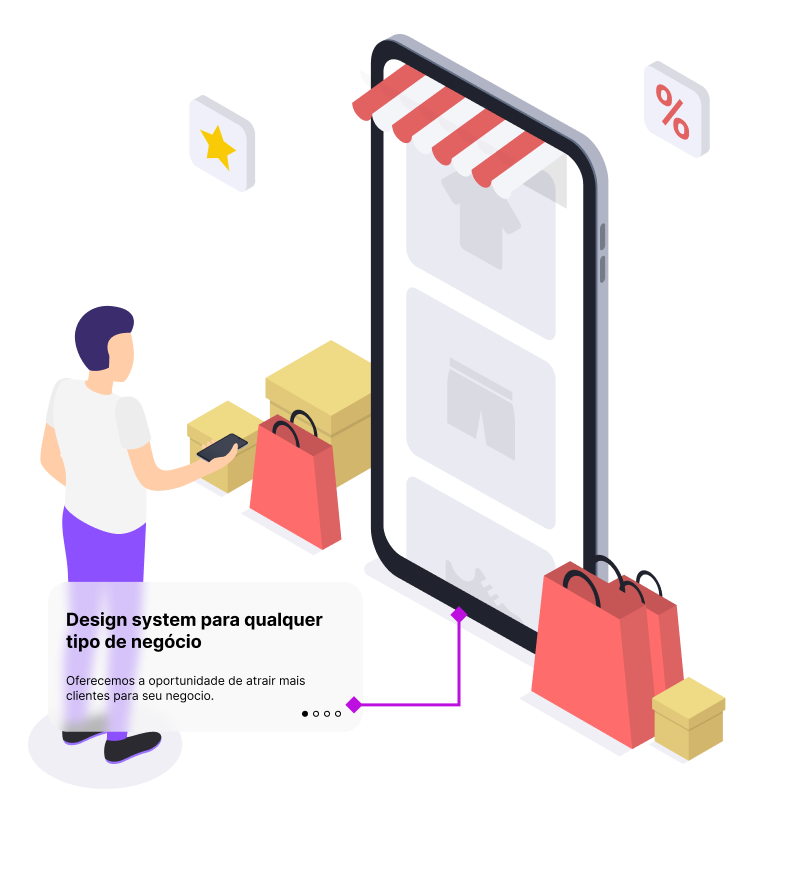
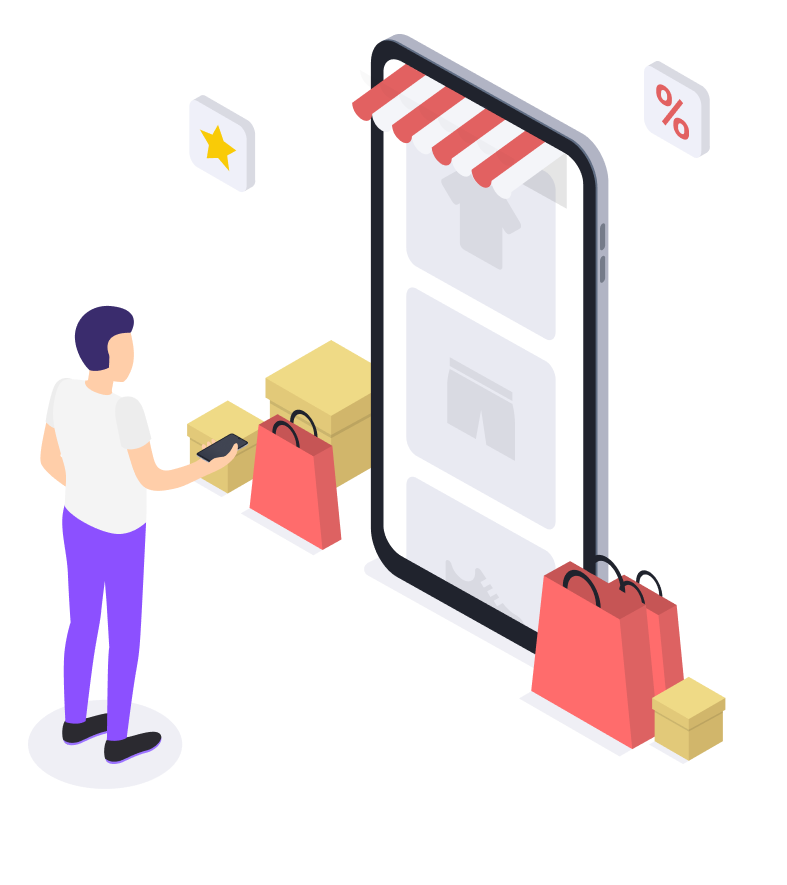
carousel images changes

Changed region(s): [[0.061, 0.6407, 0.3964, 0.8542], [0.4269, 0.7932, 0.5794, 0.8237], [0.5794, 0.6712, 0.6099, 0.7932]]

diff --git a/src/components/capa/carousel-capa.jsx b/src/components/capa/carousel-capa.jsx
@@ -1,35 +1,103 @@
-import React from 'react';
-import Carousel from 'nuka-carousel';
-import Img1 from './images-carousel/img1.png';
-import Img2 from './images-carousel/img2.png';
-import Img3 from './images-carousel/img3.png';
+import React from "react";
+import Carousel from "nuka-carousel";
+import Img1 from "./images-carousel/img1.png";
+import Img2 from "./images-carousel/img2.png";
+import Img3 from "./images-carousel/img3.png";
 
+const card = (
+  <svg
+    width="423"
+    height="172"
+    viewBox="0 0 423 172"
+    fill="none"
+    xmlns="http://www.w3.org/2000/svg"
+  >
+    <g filter="url(#filter0_b_304_1452)">
+      <rect
+        y="22"
+        width="315"
+        height="149.963"
+        rx="20"
+        fill="#F6F6F6"
+        fill-opacity="0.69"
+      />
+    </g>
+    <path
+      d="M411 13.9922V103.97H306"
+      stroke="#D500F9"
+      strokeWidth="4"
+      strokeLinecap="round"
+    />
+    <circle opacity="0.2" cx="411.5" cy="11.5" r="11.5" fill="#D500F9" />
+    <circle cx="411.5" cy="11.5" r="6.5" fill="#D500F9" />
+    <defs>
+      <filter
+        id="filter0_b_304_1452"
+        x="-11"
+        y="11"
+        width="337"
+        height="171.963"
+        filterUnits="userSpaceOnUse"
+        color-interpolation-filters="sRGB"
+      >
+        <feFlood flood-opacity="0" result="BackgroundImageFix" />
+        <feGaussianBlur in="BackgroundImage" stdDeviation="5.5" />
+        <feComposite
+          in2="SourceAlpha"
+          operator="in"
+          result="effect1_backgroundBlur_304_1452"
+        />
+        <feBlend
+          mode="normal"
+          in="SourceGraphic"
+          in2="effect1_backgroundBlur_304_1452"
+          result="shape"
+        />
+      </filter>
+    </defs>
+  </svg>
+);
 
+import "./capa.css";
 
-import './capa.css';
+export default function CarouNuka() {
+  return (
+    <Carousel
+      className="Carousel"
+      defaultControlsConfig={{
+        nextButtonText: "Next",
+        prevButtonText: "Prev",
+        pagingDotsStyle: { fill: "red" },
+      }}
+      autoplay={true}
+      autoplayInterval={2000}
+      wrapAround={true}
+      withoutControls={true}
+      transitionMode={"fade"}
+      pauseOnHover={false}
+      swiping={false} //Enable touch swipe/dragging
+      //speed = {2000}
+    >
+      <Slide1 />
+      <Slide1 />
+      <Slide1 />
+    </Carousel>
+  );
+}
 
-export default function CarouNuka () {
-    return (
-			<Carousel className="Carousel"
-			defaultControlsConfig={{
-				nextButtonText: 'Next',
-				prevButtonText: 'Prev',
-				pagingDotsStyle: {fill: 'red'}
-			}}
-			autoplay = {true}
-			autoplayInterval = {2000}
-			wrapAround = {true}
-			withoutControls = {true}
-			transitionMode = {"fade"}			
-			pauseOnHover ={false} 
-			swiping = {false}//Enable touch swipe/dragging
-			//speed = {2000}
-			>
-        <img src={Img1} className="CarouselImg" alt='...'/>
-				<img src={Img2} className="CarouselImg" alt='...'/>
-				<img src={Img3} className="CarouselImg" alt='...'/>
-				
-				
-      </Carousel>
-    )
+export function Slide1() {
+  return (
+    <div className="containercarousel">
+      {/* <div className="cardsvg">
+        {card}
+        <p className="textcard p-subtitle bold">
+          Design system para qualquer tipo de negócio.{" "} <br></br>
+          <p className="p-subtitle mt-3">
+            Oferecemos a oportunidade de atrair mais clientes para seu negocio.
+          </p>{" "}
+        </p>
+      </div> */}
+      <img src={Img1} className="CarouselImg" alt="..." />
+    </div>
+  );
 }

diff --git a/src/components/capa/capa.css b/src/components/capa/capa.css
@@ -1,58 +1,98 @@
 .textIcon {
-  padding: 0px !important;
-  margin: 0px;
-  align-content: center;
-  display: flex;
-  align-items: center;
-
-  font-weight: normal;
-  font-size: 85%;
-  line-height: auto;
-  max-width: 80%;
-  align-items: left;
+    padding: 0px !important;
+    margin: 0px;
+    align-content: center;
+    display: flex;
+    align-items: center;
+    font-weight: normal;
+    font-size: 85%;
+    line-height: auto;
+    max-width: 80%;
+    align-items: left;
 }
 
 .h1-md {
-  font-weight: bold;
-  font-size: 5vw !important;
-  letter-spacing: -0.03em !important;
-  white-space: nowrap;
+    font-weight: bold;
+    font-size: 5vw !important;
+    letter-spacing: -0.03em !important;
+    white-space: nowrap;
 }
 
 @media only screen and (max-width: 600px) {
-  .h1-md {
-    font-size: 200% !important;
-  }
+    .h1-md {
+        font-size: 200% !important;
+    }
 }
 
 .Carousel {
-  padding: 0px;
+    padding: 0px;
 }
 
 .CarouselImg {
-  margin: 0px;
-  padding: 0px;
-
-  width: 100%;
-  height: auto;
-  object-fit: fill;
-  border: none;
-  /* border: 3px solid #DA1F50; */
+    margin: 0px;
+    padding: 0px;
+    width: 100%;
+    height: auto;
+    object-fit: fill;
+    border: none;
+    /* border: 3px solid #DA1F50; */
 }
 
 .capasize {
-  display: absolute;
-  padding: 0px;
-  margin: 0px;
-  height: 80vh;
-  width: 80vw;
+    display: absolute;
+    padding: 0px;
+    margin: 0px;
+    height: 80vh;
+    width: 80vw;
 }
 
 .ml-center {
-  display: flex;
-  flex-direction: row;
-  justify-content: flex-start;
-  align-items: center;
-  margin-left: 0;
-  padding: 0;
+    display: flex;
+    flex-direction: row;
+    justify-content: flex-start;
+    align-items: center;
+    margin-left: 0;
+    padding: 0;
 }
+
+
+/* card-carousel */
+
+
+/* 
+.containercarousel {
+    position: relative;
+    overflow: hidden;
+    max-width: 100%;
+}
+
+.cardsvg {
+    position: absolute;
+    height: auto;
+    max-width: 100%;
+    top: 50%;
+    left: 50%;
+    transform: translate(-50%, 10%);
+}
+
+.textcard {
+    position: relative;
+    width: 40%;
+    height: auto;
+    max-width: 100%;
+    top: 50%;
+    left: 8%;
+    transform: translate(-5%, -120%);
+}
+
+@media screen and (max-width: 600px) {
+    .textcard {
+        width: 80%;
+    }
+}
+
+@media screen and (max-width: 600px) {
+    .cardsvg {
+        width: 80%;
+    }
+} */
